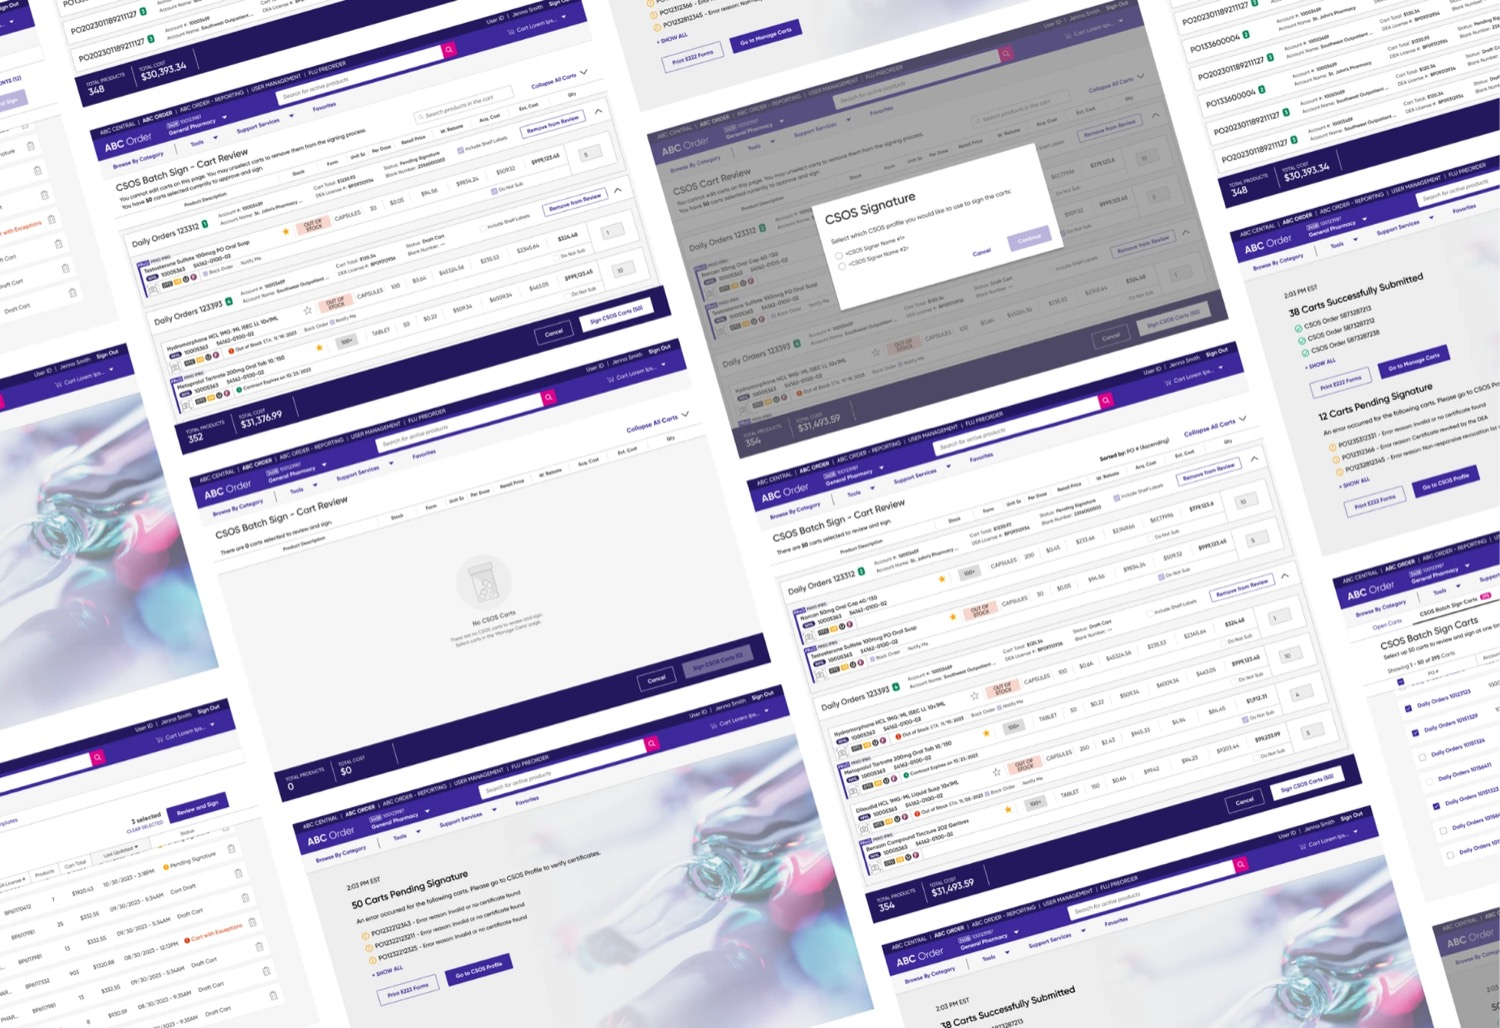
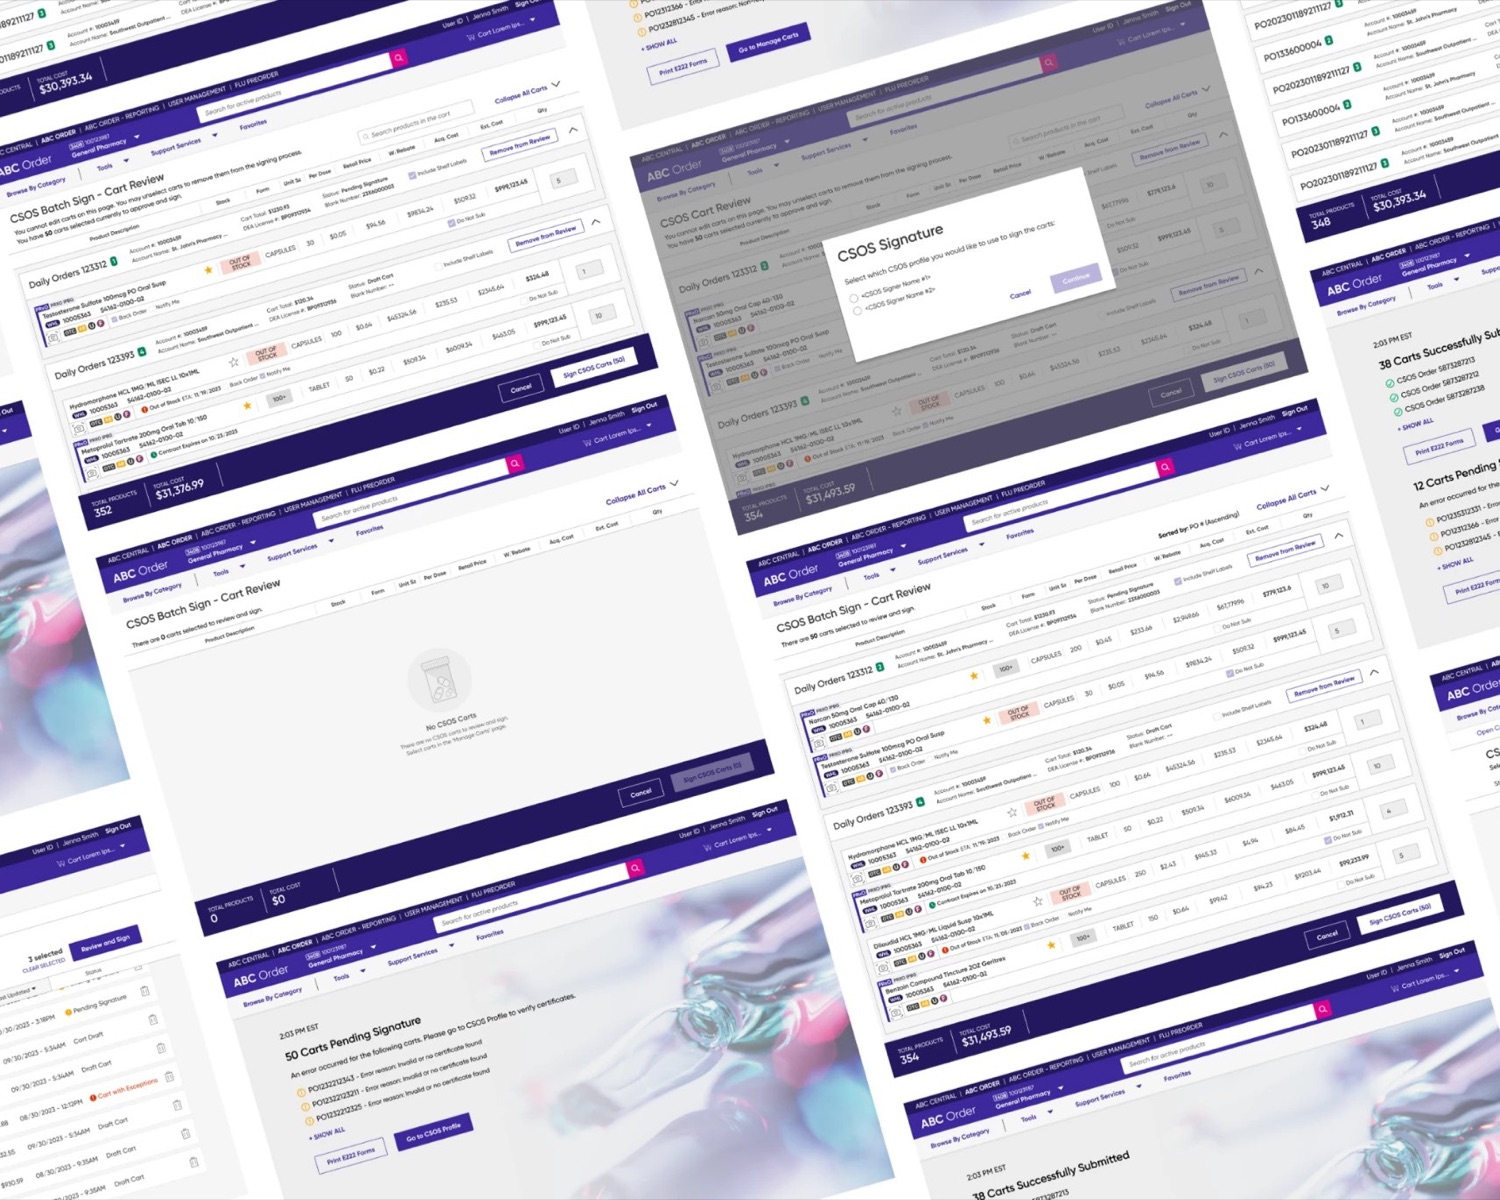
Landing: taller CSOS image (5:4 crop) + shorten eyebrow
- Crop the CSOS collage to 5:4 (1500x1200) so it reads taller/larger in
  the case band instead of the previous wide, short 1.46:1 framing.
- Cache-bust the img src (?v=2) so browsers load the new crop.
- Eyebrow 01 -> 'Systems thinking & improvement'.

diff --git a/index.html b/index.html
@@ -299,10 +299,10 @@
     <div class="wrap">
       <article class="case case--flip reveal">
         <a class="case-media" href="csos-batch-sign.html" aria-label="CSOS Batch Sign case study">
-          <img src="assets/cs-csos.jpg" alt="CSOS Batch Sign controlled-substance ordering screens" loading="lazy">
+          <img src="assets/cs-csos.jpg?v=2" alt="CSOS Batch Sign controlled-substance ordering screens" loading="lazy">
         </a>
         <div class="case-body">
-          <div class="case-eyebrow"><b>01</b> &nbsp;·&nbsp; Systems thinking &amp; process improvement</div>
+          <div class="case-eyebrow"><b>01</b> &nbsp;·&nbsp; Systems thinking &amp; improvement</div>
           <h3 class="case-title">CSOS Batch Sign</h3>
           <p class="case-desc">A redesign of controlled-substance order signing that lets pharmacists review and approve hundreds of carts in one secure, auditable pass — without losing sight of a single order.</p>
           <a class="case-link" href="csos-batch-sign.html">
